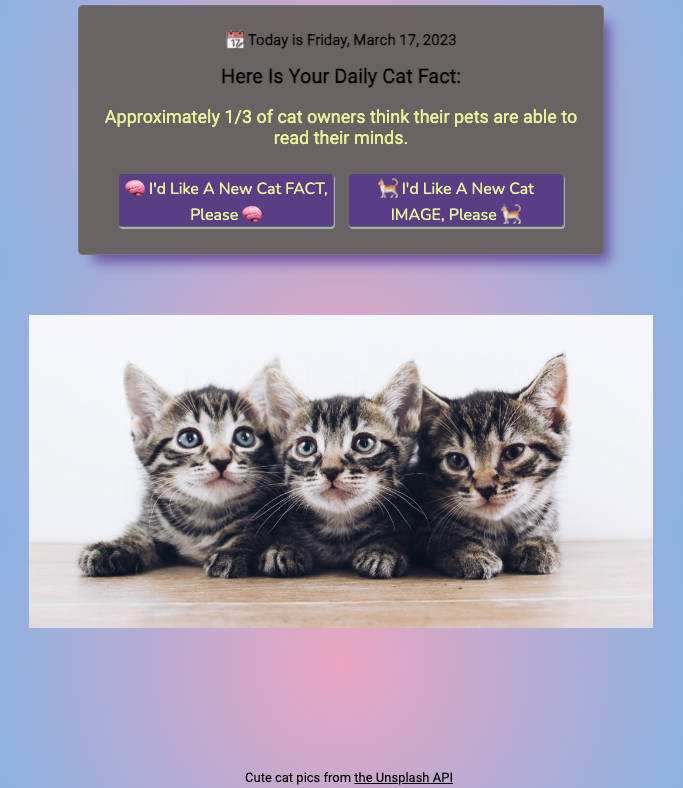
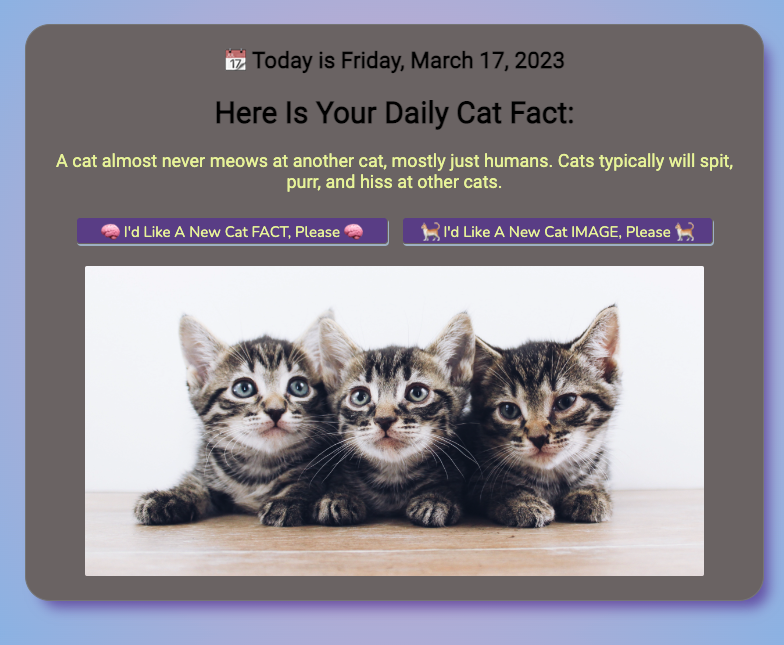
moved some elements around and updated README with updated screenshot

diff --git a/style.css b/style.css
@@ -19,14 +19,15 @@ body {
   overflow-y: hidden;
   overflow-x: hidden;
   height: 100%;
+  padding: 25px;
 }
 
 .container {
   min-height: 200px;
-  width: 70%;
+  max-width: 970px;
   border: 1px solid grey;
   padding: 20px 25px;
-  border-radius: 5px;
+  border-radius: 25px;
   box-shadow: 10px 12px 13px -5px var(--shadow-purple);
   -webkit-box-shadow: 10px 12px 13px -5px var(--shadow-purple);
   -moz-box-shadow: 10px 12px 13px -5px var(--shadow-purple);
@@ -48,74 +49,20 @@ body {
 .container .fact {
   color: var(--light-yellow);
   font-size: large;
+  text-align: center;
 }
 
 .image {
-  position: absolute;
-  max-width: 970px;
-  top: 20%;
-  left: 5%;
+  margin-top: 15px;
   width: 90%;
-  padding-bottom: 2.5rem;
+  border-radius: 2px;
   transition: transform 2s, left 2s;
 }
 
 .image:hover {
-  transform: scale(1.25);
-  /* left: -5%; */
+  transform: scale(1.05);
 }
 
-@media screen and (max-width: 600px) {
-  .container,
-  .btn {
-    font-size: 13px;
-  }
-  .image {
-    top: 65%;
-  }
-  span.icon {
-    display:inline-block
-  }
-  span.text {
-    display:none
-  }
-}
-
-@media screen and (min-width: 600px) {
-  span.icon {
-    display:none
-  }
-  span.text {
-    display:inline-block
-  }
-  .image {
-    top: 45%;
-  }
-}
-
-@media screen and (min-width: 500px) {
-  .container,
-  .btn {
-    font-size: 10px;
-    text-align: center;
-    display: inline;
-  }
-  .image {
-    top: 40%;
-  }
-  
-}
-
-/* @media screen and (max-width: 300px) {
-  
-} */
-
-@media screen and (min-width: 850px) {
-  footer a,
-  footer small {
-    color: white;
-  }
-}
 
 .btn:hover {
   color: rgb(94, 54, 158);
@@ -152,4 +99,43 @@ a,
 small {
   font-size: small;
   color: var(--header-footer);
+}
+
+
+@media screen and (max-width: 600px) {
+  .container,
+  .btn {
+    font-size: 13px;
+  }
+  span.icon {
+    display:inline-block
+  }
+  span.text {
+    display:none
+  }
+}
+
+ @media screen and (min-width: 600px) {
+  span.icon {
+    display:none
+  }
+  span.text {
+    display:inline-block
+  }
+}
+
+@media screen and (min-width: 500px) {
+  .container,
+  .btn {
+    font-size: 15px;
+    text-align: center;
+    display: inline;
+  }
+} 
+
+@media screen and (min-width: 850px) {
+  footer a,
+  footer small {
+    color: white;
+  }
 }

diff --git a/index.js b/index.js
@@ -1,7 +1,7 @@
 const title = document.createElement('h1')
 const today = document.createElement('h2')
 
-const factDiv = document.createElement('div')
+const factDiv = document.querySelector('.container')
 const catFact = document.createElement('p')
 const NewFactBtn = document.createElement('span')
 const NewCatImgBtn = document.createElement('span')
@@ -16,7 +16,6 @@ const options = { weekday: 'long', year: 'numeric', month: 'long', day: 'numeric
 today.textContent = `📆 Today is ${new Date(Date.now()).toLocaleDateString(undefined, options)}`
 title.innerText = "Here Is Your Daily Cat Fact:"
 catFact.className = 'fact'
-factDiv.className = 'container'
 NewFactBtn.classList.add('btn', 'text')
 NewCatImgBtn.classList.add('btn', 'text')
 factIcon.classList.add('btn', 'icon')
@@ -33,8 +32,7 @@ NewCatImgBtn.innerText = "\u{1F408} I'd Like A New Cat IMAGE, Please \u{1F408}"
 factIcon.innerText = "\u{1F9E0} CAT FACT"
 imgIcon.innerText = "\u{1F408} CAT IMAGE"
 
-factDiv.append(today, title, catFact, NewFactBtn, NewCatImgBtn, factIcon, imgIcon)
-document.body.prepend(factDiv)
+factDiv.prepend(today, title, catFact, NewFactBtn, NewCatImgBtn, factIcon, imgIcon)
 document.querySelector('footer').append(shoutOut, credit)
 
 // using netlify function to fetch unsplash img

diff --git a/index.html b/index.html
@@ -10,7 +10,9 @@
   <title>Cat Fax</title>
 </head>
 <body>
-  <img class="image"></img>
+  <div class="container">
+    <img class="image"></img>
+  </div>
   <footer></footer>
 </body>
 </html>

diff --git a/README.md b/README.md
@@ -24,7 +24,7 @@ If you would like to run this application, you'll need to do the following:
 
 If you would like to contribute to this tiny but pretty darned cute project, please submit a pull request. 
 <p align="center">
-  <img src="assets/screenshot.png" width="330" height="400">
+  <img src="assets/screenshot.png" width="400" height="350">
 </p>
 
 
